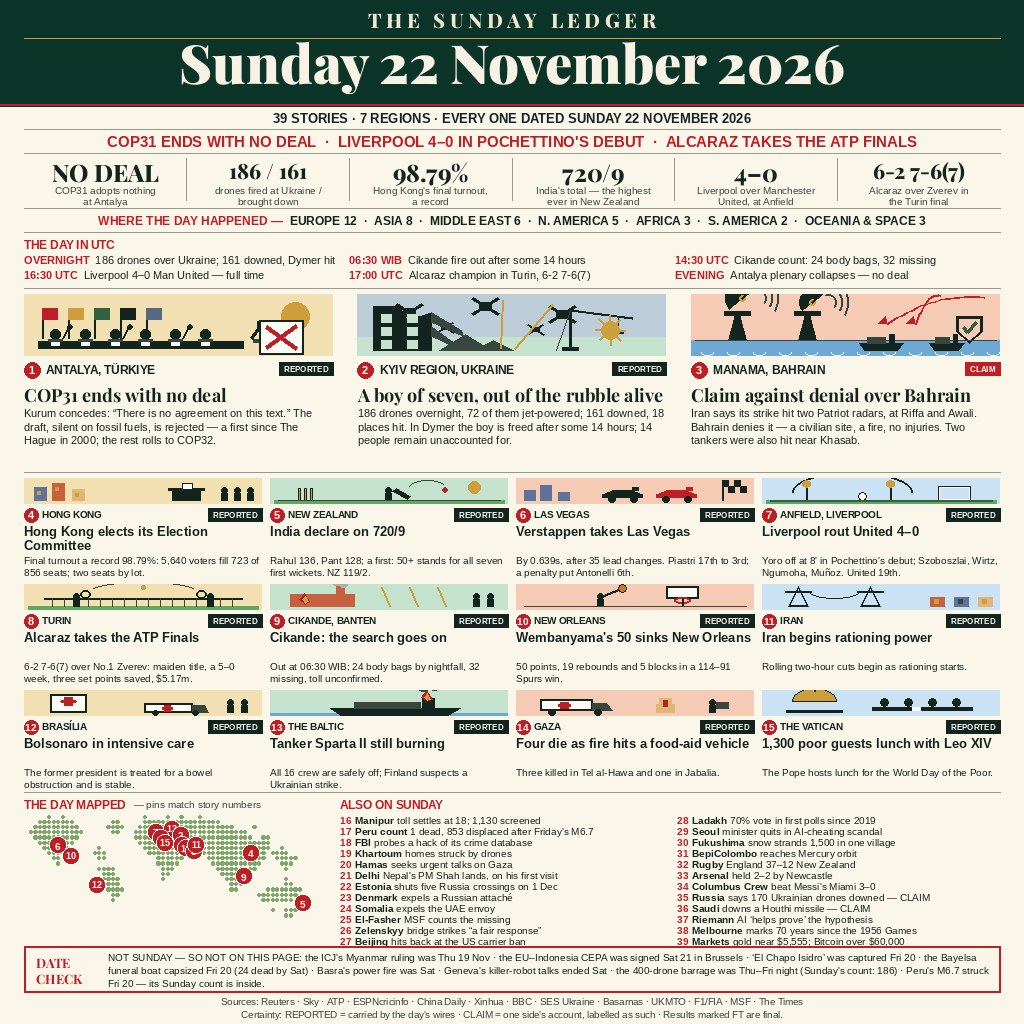
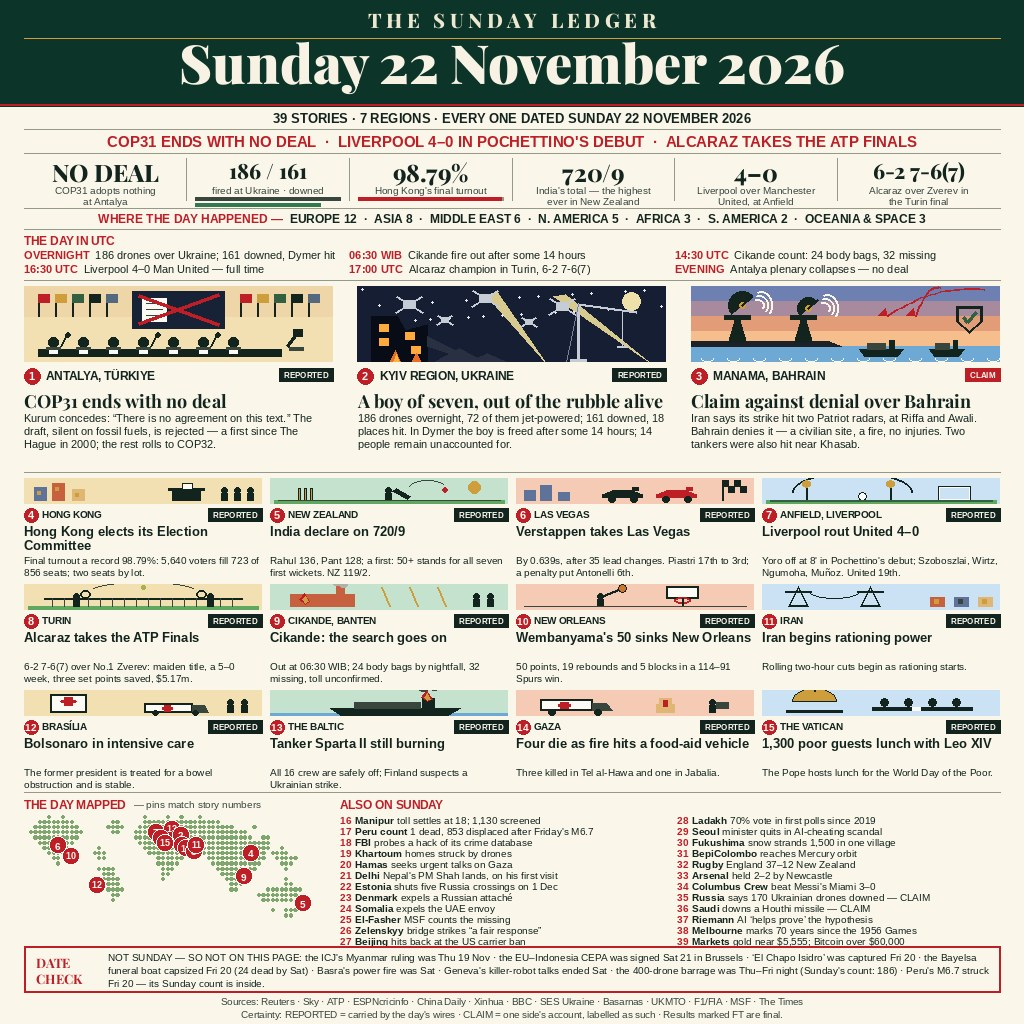
Follow the reference pattern: rich lead scenes (hall screen, Kyiv night panel, Bahrain dusk), taller lead art, data bars in the figures band

Changed region(s): [[0.0, 0.1875, 1.0, 0.4375]]

diff --git a/render.py b/render.py
@@ -261,111 +261,136 @@ def render_art(fn, w, h, tint):
 
 
 def art_cop(x, y, w, h):
-    # sun, a row of flags, the delegates' table with heads and a gavel,
-    # and the rejected text under a red X
-    d.ellipse([x + w - 52, y + 8, x + w - 24, y + 36], fill=GOLD)
+    # the Antalya hall: a big screen carrying the rejected text, flags
+    # along the wall, and the delegates' table below
+    d.rectangle([x, y, x + w, y + 30], fill=(238, 214, 168))
+    # the screen: the draft itself, crossed out
+    sx0, sy0, sx1, sy1 = x + 108, y + 5, x + 200, y + 42
+    d.rectangle([sx0, sy0, sx1, sy1], fill=(24, 34, 54))
+    d.rectangle([sx0 + 10, sy0 + 7, sx0 + 34, sy0 + 30],
+                fill=(252, 250, 244))
+    for r_ in range(3):
+        d.line([(sx0 + 14, sy0 + 12 + r_ * 6), (sx0 + 30, sy0 + 12 + r_ * 6)],
+               fill=INK2, width=1)
+    d.line([(sx0 + 6, sy0 + 4), (sx1 - 6, sy1 - 4)], fill=RED, width=4)
+    d.line([(sx1 - 6, sy0 + 4), (sx0 + 6, sy1 - 4)], fill=RED, width=4)
+    # flags along the wall, on both sides of the screen
     cols = [RED, GOLD, (52, 96, 66), INK, (84, 104, 128)]
     for i, c in enumerate(cols):
-        fx = x + 18 + i * 26
-        d.line([(fx, y + 14), (fx, y + 44)], fill=INK, width=2)
-        d.rectangle([fx, y + 14, fx + 15, y + 25], fill=c)
-    # delegates' table: a long table, a row of heads above it, papers
-    tx0, tx1, ty = x + 14, x + w - 90, y + h - 8
+        fx = x + 14 + i * 17
+        d.line([(fx, y + 8), (fx, y + 30)], fill=INK, width=2)
+        d.rectangle([fx, y + 8, fx + 11, y + 16], fill=c)
+        fx2 = x + w - 25 - (4 - i) * 17
+        d.line([(fx2, y + 8), (fx2, y + 30)], fill=INK, width=2)
+        d.rectangle([fx2, y + 8, fx2 + 11, y + 16], fill=c)
+    # delegates' table: seven heads, papers, three hands raised
+    tx0, tx1, ty = x + 14, x + w - 52, y + h - 6
     d.rectangle([tx0, ty - 7, tx1, ty], fill=INK)
-    for i in range(6):
-        hx = tx0 + 12 + i * 30
+    for i in range(7):
+        hx = tx0 + 10 + i * 30
         d.ellipse([hx, ty - 19, hx + 10, ty - 9], fill=INK)
         d.rectangle([hx - 2, ty - 9, hx + 12, ty - 7], fill=INK2)
         d.rectangle([hx + 1, ty - 6, hx + 9, ty - 3],
                     fill=(252, 250, 244))
-    # three delegates with a hand raised — the vote that failed
-    for i in (0, 2, 4):
-        hx = tx0 + 12 + i * 30
+    for i in (0, 3, 5):
+        hx = tx0 + 10 + i * 30
         d.line([(hx + 13, ty - 10), (hx + 19, ty - 21)], fill=INK, width=2)
         d.ellipse([hx + 17, ty - 24, hx + 22, ty - 19], fill=INK)
-    # the chair's gavel, raised at the head of the table
-    gx, gy = tx1 + 8, ty - 22
+    # the chair's gavel at the head of the table
+    gx, gy = tx1 + 6, ty - 22
     d.line([(gx, gy + 12), (gx + 9, gy)], fill=INK, width=3)
     d.rectangle([gx + 6, gy - 5, gx + 15, gy + 2], fill=INK)
     d.rectangle([gx + 2, gy + 13, gx + 16, gy + 16], fill=INK2)
-    dx, dy = x + w - 74, y + 26
-    d.rectangle([dx, dy, dx + 44, dy + 34], fill=(252, 250, 244),
-                outline=INK, width=2)
-    d.line([(dx + 7, dy + 6), (dx + 37, dy + 28)], fill=RED, width=4)
-    d.line([(dx + 37, dy + 6), (dx + 7, dy + 28)], fill=RED, width=4)
 
 
 def art_drone(x, y, w, h):
-    # three drones over a broken block; rubble, a rescue crane, and a
-    # rescuer's lamp in the wreckage
-    d.rectangle([x, y, x + w, y + 42], fill=(188, 204, 216))
-    for (cx, cy) in [(x + 52, y + 18), (x + 128, y + 12), (x + 205, y + 20)]:
-        d.line([(cx - 13, cy - 8), (cx + 13, cy + 8)], fill=INK, width=3)
-        d.line([(cx - 13, cy + 8), (cx + 13, cy - 8)], fill=INK, width=3)
-        d.rectangle([cx - 6, cy - 4, cx + 6, cy + 4], fill=INK)
-    for (cx, cy) in [(x + 88, y + 33), (x + 178, y + 35)]:
-        d.line([(cx - 8, cy - 5), (cx + 8, cy + 5)], fill=INK, width=2)
-        d.line([(cx - 8, cy + 5), (cx + 8, cy - 5)], fill=INK, width=2)
-        d.rectangle([cx - 4, cy - 2, cx + 4, cy + 2], fill=INK)
-    bx, by = x + 16, y + h - 6
-    d.polygon([(bx, by), (bx, by - 44), (bx + 26, by - 44), (bx + 34, by - 30),
-               (bx + 58, by - 38), (bx + 58, by)], fill=INK)
-    for r_ in range(3):
-        for c_ in range(2):
-            d.rectangle([bx + 8 + c_ * 26, by - 36 + r_ * 13,
-                         bx + 18 + c_ * 26, by - 28 + r_ * 13], fill=TINT2)
-    # snapped floor slabs leaning out of the broken cross-section
-    d.polygon([(bx + 58, by - 38), (bx + 88, by - 20), (bx + 90, by - 14),
-               (bx + 58, by - 28)], fill=INK2)
-    d.polygon([(bx + 58, by - 24), (bx + 80, by - 8), (bx + 82, by - 3),
-               (bx + 58, by - 14)], fill=INK2)
-    d.polygon([(bx + 66, by), (bx + 92, by - 16), (bx + 118, by)], fill=INK2)
-    d.polygon([(bx + 100, by), (bx + 120, by - 10), (bx + 140, by)], fill=INK2)
-    # rescue crane: mast, jib and a hook line over the rubble
-    mx = x + w - 96
-    d.line([(mx, by), (mx, y + 16)], fill=INK, width=3)
-    d.line([(mx, y + 16), (mx + 62, y + 24)], fill=INK, width=3)
-    d.line([(mx, y + 16), (mx - 14, by)], fill=INK2, width=1)
-    d.line([(mx + 48, y + 22), (mx + 48, by - 18)], fill=INK, width=1)
-    d.line([(mx + 43, by - 18), (mx + 53, by - 18)], fill=INK, width=2)
-    d.rectangle([mx - 8, by - 3, mx + 8, by], fill=INK)
+    # Kyiv region at night: searchlights and pale drones over a burning,
+    # broken block in Dymer; a rescue crane at work
+    d.rectangle([x, y, x + w, y + h], fill=(22, 30, 52))
+    for i in range(26):
+        sx_ = x + (i * 53) % (w - 8) + 4
+        sy_ = y + (i * 31) % 34 + 2
+        d.ellipse([sx_, sy_, sx_ + 2, sy_ + 2], fill=(232, 234, 240))
+    d.ellipse([x + w - 44, y + 6, x + w - 26, y + 24], fill=(238, 226, 170))
     # searchlight beams sweeping up from the rescue line
-    d.line([(bx + 128, by - 2), (x + 146, y + 6)], fill=GOLD, width=2)
-    d.line([(bx + 142, by - 2), (x + 196, y + 10)], fill=GOLD, width=2)
-    lx, ly = x + w - 56, y + h - 26
-    d.ellipse([lx - 9, ly - 9, lx + 9, ly + 9], fill=GOLD)
-    for a in range(0, 360, 45):
-        import math
-        d.line([(lx, ly), (lx + 15 * math.cos(math.radians(a)),
-                           ly + 15 * math.sin(math.radians(a)))],
-               fill=GOLD, width=2)
+    d.polygon([(x + 188, y + h), (x + 128, y + 8), (x + 140, y + 6)],
+              fill=(216, 202, 142))
+    d.polygon([(x + 292, y + h), (x + 196, y + 10), (x + 208, y + 8)],
+              fill=(216, 202, 142))
+    pale = (198, 204, 214)
+    for (cx, cy, s) in [(52, 18, 1.0), (128, 12, 1.0), (205, 20, 1.0),
+                        (88, 34, 0.6), (172, 36, 0.6)]:
+        cx, cy = x + cx, y + cy
+        d.line([(cx - 13 * s, cy - 8 * s), (cx + 13 * s, cy + 8 * s)],
+               fill=pale, width=2)
+        d.line([(cx - 13 * s, cy + 8 * s), (cx + 13 * s, cy - 8 * s)],
+               fill=pale, width=2)
+        d.rectangle([cx - 6 * s, cy - 4 * s, cx + 6 * s, cy + 4 * s],
+                    fill=pale)
+    # the broken block: lit windows, a collapsed corner, fire at its foot
+    bx, by = x + 14, y + h
+    dark = (8, 12, 22)
+    d.polygon([(bx, by), (bx, by - 46), (bx + 26, by - 46),
+               (bx + 34, by - 32), (bx + 56, by - 38), (bx + 56, by)],
+              fill=dark)
+    for (wx_, wy_) in [(8, -38), (34, -30), (8, -24), (40, -16)]:
+        d.rectangle([bx + wx_, by + wy_, bx + wx_ + 9, by + wy_ + 7],
+                    fill=(255, 170, 60))
+    d.polygon([(bx + 56, by - 26), (bx + 84, by - 12), (bx + 86, by - 6),
+               (bx + 56, by - 16)], fill=(40, 48, 66))
+    d.polygon([(bx + 62, by), (bx + 88, by - 14), (bx + 114, by)],
+              fill=(40, 48, 66))
+    d.polygon([(bx + 96, by), (bx + 116, by - 9), (bx + 136, by)],
+              fill=(40, 48, 66))
+    # fire at the foot of the block
+    d.polygon([(bx + 18, by), (bx + 24, by - 12), (bx + 29, by)],
+              fill=(232, 110, 40))
+    d.polygon([(bx + 22, by), (bx + 25, by - 8), (bx + 28, by)],
+              fill=(250, 180, 60))
+    d.polygon([(bx + 40, by), (bx + 45, by - 9), (bx + 50, by)],
+              fill=(232, 110, 40))
+    # rescue crane, pale against the night
+    mx = x + w - 88
+    d.line([(mx, by), (mx, y + 18)], fill=pale, width=3)
+    d.line([(mx, y + 18), (mx + 58, y + 26)], fill=pale, width=3)
+    d.line([(mx, y + 18), (mx - 12, by)], fill=(120, 130, 148), width=1)
+    d.line([(mx + 44, y + 24), (mx + 44, by - 16)], fill=pale, width=1)
+    d.line([(mx + 39, by - 16), (mx + 49, by - 16)], fill=pale, width=2)
+    d.rectangle([mx - 8, by - 3, mx + 8, by], fill=pale)
 
 
 def art_radar(x, y, w, h):
-    # TWO Patriot radar dishes on masts, signal arcs, incoming tracks
-    # kept inside the panel, the denial's shield, and tankers on the water
+    # Bahrain at dusk: two Patriot radar dishes on the coast, incoming
+    # tracks overhead, tankers on the water, the shield of the denial
     import math
-    gy = y + h - 16                     # ground line; sea below it
+    bands = [(110, 128, 178), (168, 138, 158), (226, 156, 120),
+             (246, 190, 140)]
+    bh = (h - 16) // 4
+    for i, bc in enumerate(bands):
+        d.rectangle([x, y + i * bh, x + w, y + (i + 1) * bh], fill=bc)
+    gy = y + h - 16                     # coast line; sea below it
     d.rectangle([x, gy, x + w, y + h], fill=SEA)
+    d.polygon([(x, gy), (x + 150, gy), (x + 138, gy - 5), (x, gy - 5)],
+              fill=(30, 34, 40))
 
     def dish(cx, big):
-        my = gy                           # mast foot
-        d.polygon([(cx - 9, my), (cx - 2, my - 26), (cx + 2, my - 26),
+        my = gy - 4                       # mast foot, on the coast
+        d.polygon([(cx - 9, my), (cx - 2, my - 24), (cx + 2, my - 24),
                    (cx + 9, my)], fill=INK)
-        d.rectangle([cx - 13, my - 29, cx + 13, my - 25], fill=INK)
-        r = 17 if big else 13
-        ccx, ccy = cx + 5, my - 29 - r + 4
+        d.rectangle([cx - 13, my - 27, cx + 13, my - 23], fill=INK)
+        r = 14 if big else 11
+        ccx, ccy = cx + 5, my - 27 - r + 4
         d.pieslice([ccx - r, ccy - r, ccx + r, ccy + r], start=140, end=320,
                    fill=INK)
         d.ellipse([ccx - 3, ccy - 3, ccx + 3, ccy + 3], fill=GOLD)
         d.line([(ccx, ccy), (ccx + 10, ccy - 9)], fill=INK, width=2)
-        for rr in (8, 14, 20):
+        for rr in (6, 10, 14):
             d.arc([ccx + 8, ccy - rr, ccx + 8 + rr + 8, ccy + rr],
-                  start=250, end=40, fill=INK2, width=2)
+                  start=250, end=40, fill=(250, 246, 234), width=2)
         return ccx, ccy
 
     dish(x + 46, True)
-    dish(x + 116, False)
+    dish(x + 112, False)
     # incoming tracks: flat arcs that stay inside the panel
     for (sx, sy, ex) in [(x + w - 16, y + 4, x + 196),
                          (x + w - 60, y + 2, x + 224)]:
@@ -379,13 +404,12 @@ def art_radar(x, y, w, h):
         d.polygon([(pts[-1][0], pts[-1][1]), (pts[-1][0] - 9, pts[-1][1] - 1),
                    (pts[-1][0] - 2, pts[-1][1] - 8)], fill=RED)
     # the shield of the denial, smaller, at the right
-    sx, sy = x + w - 44, y + 22
+    sx, sy = x + w - 44, y + 20
     d.polygon([(sx, sy), (sx + 26, sy), (sx + 26, sy + 15), (sx + 13, sy + 27),
                (sx, sy + 15)], outline=INK, width=3)
     d.line([(sx + 7, sy + 11), (sx + 11, sy + 16), (sx + 20, sy + 6)],
            fill=(52, 96, 66), width=3)
     # the water, and two tankers on it
-    d.line([(x + 4, gy), (x + w - 4, gy)], fill=INK2, width=1)
     for (hx, s) in [(x + 168, 1.0), (x + 238, 0.8)]:
         hw = 44 * s
         d.polygon([(hx, gy + 3), (hx + hw, gy + 3), (hx + hw - 6, gy + 10),
@@ -664,9 +688,26 @@ for i, (num, lab) in enumerate(FIGURES):
     nf = F("pf8", 24 if len(num) <= 7 else 21)
     d.text((cx + (cellw - tw(num, nf)) / 2, fy), num, font=nf, fill=INK)
     lf = F("sans", 10)
-    for j, ln in enumerate(lab.split("\n")):
-        d.text((cx + (cellw - tw(ln, lf)) / 2, fy + 28 + j * 11), ln,
-               font=lf, fill=INK2)
+    if i == 1:
+        ln = "fired at Ukraine · downed"
+        d.text((cx + (cellw - tw(ln, lf)) / 2, fy + 28), ln, font=lf,
+               fill=INK2)
+        bw = cellw - 18
+        d.rectangle([cx + 9, fy + 41, cx + 9 + bw, fy + 44], fill=INK2)
+        d.rectangle([cx + 9, fy + 47, cx + 9 + bw * 161 / 186, fy + 50],
+                    fill=(52, 120, 80))
+    elif i == 2:
+        ln = "Hong Kong's final turnout"
+        d.text((cx + (cellw - tw(ln, lf)) / 2, fy + 28), ln, font=lf,
+               fill=INK2)
+        bw = cellw - 18
+        d.rectangle([cx + 9, fy + 41, cx + 9 + bw, fy + 44], fill=HAIR)
+        d.rectangle([cx + 9, fy + 41, cx + 9 + bw * 0.9879, fy + 44],
+                    fill=RED)
+    else:
+        for j, ln in enumerate(lab.split("\n")):
+            d.text((cx + (cellw - tw(ln, lf)) / 2, fy + 28 + j * 11), ln,
+                   font=lf, fill=INK2)
     if i:
         d.line([(cx, fy + 2), (cx, fy + 44)], fill=HAIR, width=1)
 hrule(208)
@@ -677,28 +718,28 @@ pre = "WHERE THE DAY HAPPENED \u2014  "
 pf_, bf = F("bold", 12), F("bold", 12)
 total = tw(pre, pf_) + tw(seg, bf)
 sx = (W - total) / 2
-d.text((sx, 214), pre, font=pf_, fill=RED)
-d.text((sx + tw(pre, pf_), 214), seg, font=bf, fill=INK)
-hrule(232)
+d.text((sx, 212), pre, font=pf_, fill=RED)
+d.text((sx + tw(pre, pf_), 212), seg, font=bf, fill=INK)
+hrule(229)
 
 # ---- timeline ---------------------------------------------------------------
-d.text((M, 238), "THE DAY IN UTC", font=F("bold", 11.5), fill=RED)
+d.text((M, 234), "THE DAY IN UTC", font=F("bold", 11.5), fill=RED)
 tl_w = CW / 3
 for i, (tm, txt) in enumerate(TIMELINE):
     cx = M + (i % 3) * tl_w
-    cy = 254 + (i // 3) * 15
+    cy = 249 + (i // 3) * 14
     d.text((cx, cy), tm, font=F("bold", 11), fill=RED)
     d.text((cx + tw(tm, F("bold", 11)) + 6, cy), txt, font=F("sans", 11),
            fill=INK)
-hrule(288)
+hrule(280)
 
 # ---- leads ------------------------------------------------------------------
-ly = 294
+ly = 286
 lead_w = 309
 for i, L in enumerate(LEADS):
     x = M + i * (lead_w + 24.5)
-    img.paste(render_art(LEAD_ART[i], lead_w, 62, L["tint"]), (int(x), ly))
-    ry = ly + 68
+    img.paste(render_art(LEAD_ART[i], lead_w, 76, L["tint"]), (int(x), ly))
+    ry = ly + 82
     numb(x, ry, L["n"], r=8)
     d.text((x + 22, ry + 1), L["loc"], font=F("bold", 11.5), fill=INK)
     cw_ = int(tw(L["tag"], F("bold", 8))) + 10
@@ -709,14 +750,14 @@ for i, L in enumerate(LEADS):
         warn.append(f"lead {L['n']} headline {len(lines)} lines")
     for ln in lines[:2]:
         d.text((x, hy), ln, font=F("pf7", 18), fill=INK)
-        hy += 22
+        hy += 21
     dy = hy + 3
     dlines = wrap(L["deck"], F("sans", 11), lead_w)
     if len(dlines) > 4:
         warn.append(f"lead {L['n']} deck {len(dlines)} lines")
     for ln in dlines[:4]:
         d.text((x, dy), ln, font=F("sans", 11), fill=INK)
-        dy += 13.75
+        dy += 13
 hrule(472)
 
 # ---- cards ------------------------------------------------------------------
